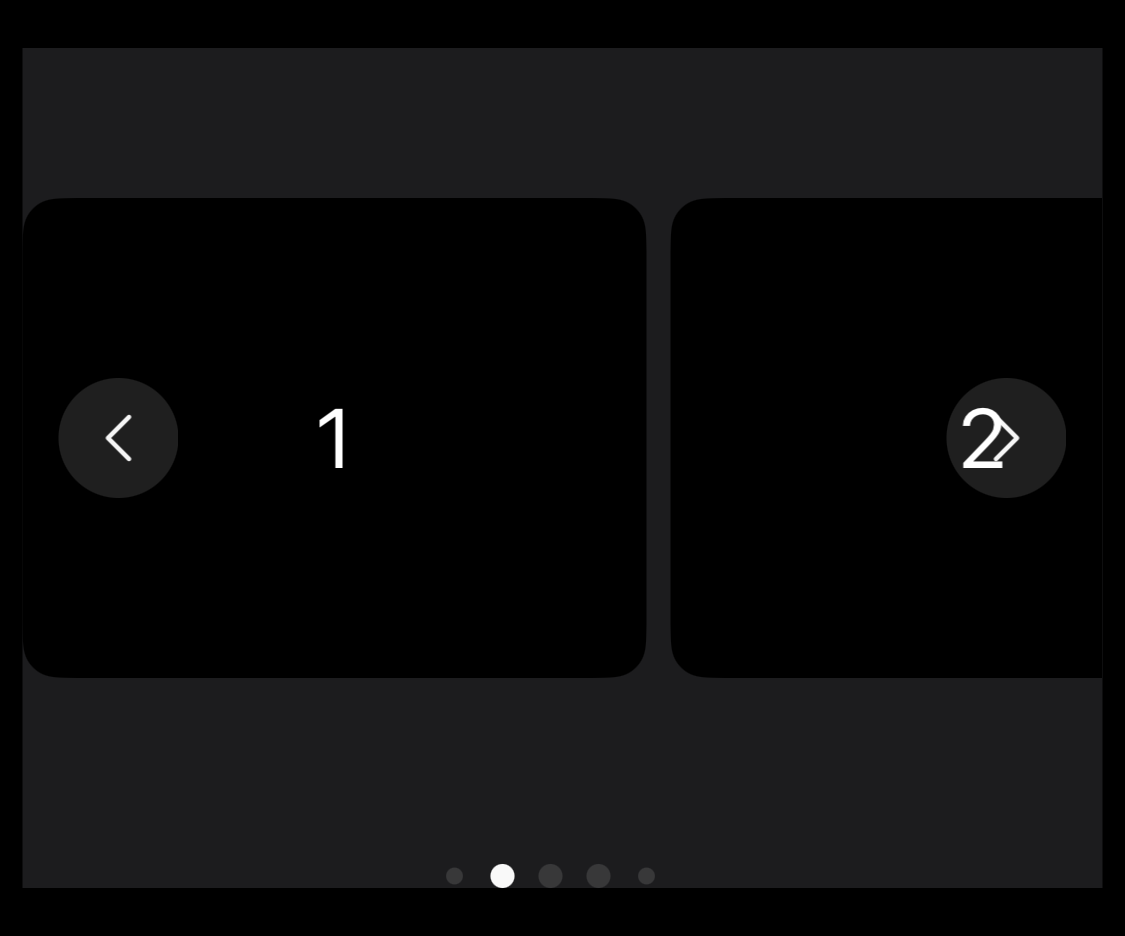
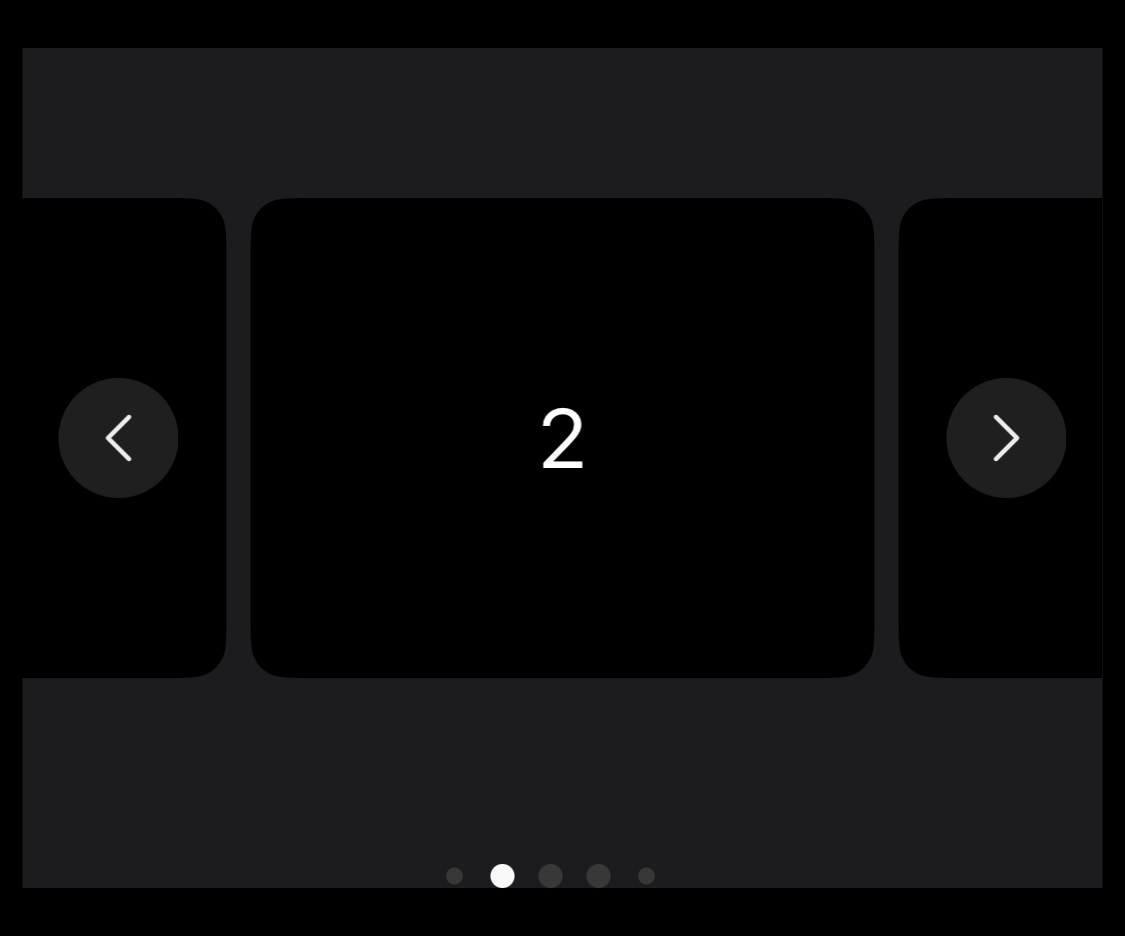
fix: Carousel updates

diff --git a/SDDSComponents/Sources/SDDSComponents/Components/SDDSCarousel/CarouselCollectionView.swift b/SDDSComponents/Sources/SDDSComponents/Components/SDDSCarousel/CarouselCollectionView.swift
@@ -64,6 +64,15 @@ private final class CarouselPagingFlowLayout: UICollectionViewFlowLayout {
     }
 }
 
+private final class CarouselContainerCollectionView: UICollectionView {
+    var didLayoutSubviewsHandler: ((UICollectionView) -> Void)?
+
+    override func layoutSubviews() {
+        super.layoutSubviews()
+        didLayoutSubviewsHandler?(self)
+    }
+}
+
 struct CarouselCollectionView<Content: View>: UIViewRepresentable {
     @Binding var selection: Int
     let pageCount: Int
@@ -85,7 +94,7 @@ struct CarouselCollectionView<Content: View>: UIViewRepresentable {
         layout.fixedPageWidth = fixedPageWidth
         layout.snapAlignment = pageAlignment
 
-        let collectionView = UICollectionView(frame: .zero, collectionViewLayout: layout)
+        let collectionView = CarouselContainerCollectionView(frame: .zero, collectionViewLayout: layout)
         collectionView.backgroundColor = .clear
         collectionView.showsHorizontalScrollIndicator = false
         collectionView.decelerationRate = .fast
@@ -94,6 +103,9 @@ struct CarouselCollectionView<Content: View>: UIViewRepresentable {
         collectionView.delegate = context.coordinator
         collectionView.isScrollEnabled = isScrollEnabled
         collectionView.register(HostingCarouselCell.self, forCellWithReuseIdentifier: HostingCarouselCell.reuseIdentifier)
+        collectionView.didLayoutSubviewsHandler = { [weak coordinator = context.coordinator] view in
+            coordinator?.collectionViewDidLayoutSubviews(view)
+        }
         return collectionView
     }
 
@@ -116,6 +128,7 @@ struct CarouselCollectionView<Content: View>: UIViewRepresentable {
         } else {
             context.coordinator.refreshVisibleCells(in: uiView)
         }
+        uiView.layoutIfNeeded()
         context.coordinator.scrollToSelectionIfNeeded(
             collectionView: uiView,
             animated: true
@@ -202,7 +215,6 @@ struct CarouselCollectionView<Content: View>: UIViewRepresentable {
         }
 
         func scrollViewWillBeginDragging(_ scrollView: UIScrollView) {
-            // If user starts dragging, treat further updates as user-driven.
             isProgrammaticScroll = false
         }
 
@@ -217,6 +229,10 @@ struct CarouselCollectionView<Content: View>: UIViewRepresentable {
             isProgrammaticScroll = false
         }
 
+        func collectionViewDidLayoutSubviews(_ collectionView: UICollectionView) {
+            scrollToSelectionIfNeeded(collectionView: collectionView, animated: false)
+        }
+
         func scrollToSelectionIfNeeded(collectionView: UICollectionView, animated: Bool) {
             guard parent.pageCount > 0 else {
                 hasPerformedInitialPositioning = false
@@ -224,8 +240,8 @@ struct CarouselCollectionView<Content: View>: UIViewRepresentable {
                 return
             }
             guard collectionView.bounds.width > 1, collectionView.bounds.height > 1 else {
-                // Keep selection "dirty" until we have final layout size.
                 lastKnownSelection = -1
+                scheduleDeferredPositioning(for: collectionView)
                 return
             }
             let boundsChanged = collectionView.bounds.size != lastKnownBoundsSize
@@ -234,7 +250,6 @@ struct CarouselCollectionView<Content: View>: UIViewRepresentable {
 
             collectionView.layoutIfNeeded()
             guard collectionView.numberOfItems(inSection: 0) > clampedSelection else {
-                // Data/layout is not ready yet; retry on next update pass.
                 lastKnownSelection = -1
                 scheduleDeferredPositioning(for: collectionView)
                 return
@@ -242,9 +257,6 @@ struct CarouselCollectionView<Content: View>: UIViewRepresentable {
 
             let isInitialSelectionSync = !hasPerformedInitialPositioning
                 && lastKnownSelection == -1
-                && clampedSelection == 0
-            // Disable animation only for the very first sync to the initial page.
-            // Any first user-driven transition (including after variation changes) must be animated.
             var shouldAnimate = animated && !isInitialSelectionSync
             var didApplyPosition = false
 
@@ -256,7 +268,6 @@ struct CarouselCollectionView<Content: View>: UIViewRepresentable {
                 )
                 if shouldAnimate {
                     let deltaX = abs(collectionView.contentOffset.x - targetOffsetX)
-                    // No-op animated scroll may not trigger completion delegate.
                     if deltaX < 0.5 {
                         shouldAnimate = false
                     }
@@ -297,10 +308,9 @@ struct CarouselCollectionView<Content: View>: UIViewRepresentable {
             DispatchQueue.main.async { [weak self, weak collectionView] in
                 guard let self, let collectionView else { return }
                 self.hasScheduledDeferredPositioning = false
-                let shouldAnimateDeferred = self.hasPerformedInitialPositioning || self.parent.selection != 0
                 self.scrollToSelectionIfNeeded(
                     collectionView: collectionView,
-                    animated: shouldAnimateDeferred
+                    animated: self.hasPerformedInitialPositioning
                 )
             }
         }
@@ -329,10 +339,12 @@ struct CarouselCollectionView<Content: View>: UIViewRepresentable {
                 shouldReloadData = true
                 lastKnownGap = parent.gap
                 hasPerformedInitialPositioning = false
+                lastKnownSelection = -1
             }
             if parent.pageAlignment != lastKnownAlignment {
                 lastKnownAlignment = parent.pageAlignment
                 hasPerformedInitialPositioning = false
+                lastKnownSelection = -1
             }
         }
 